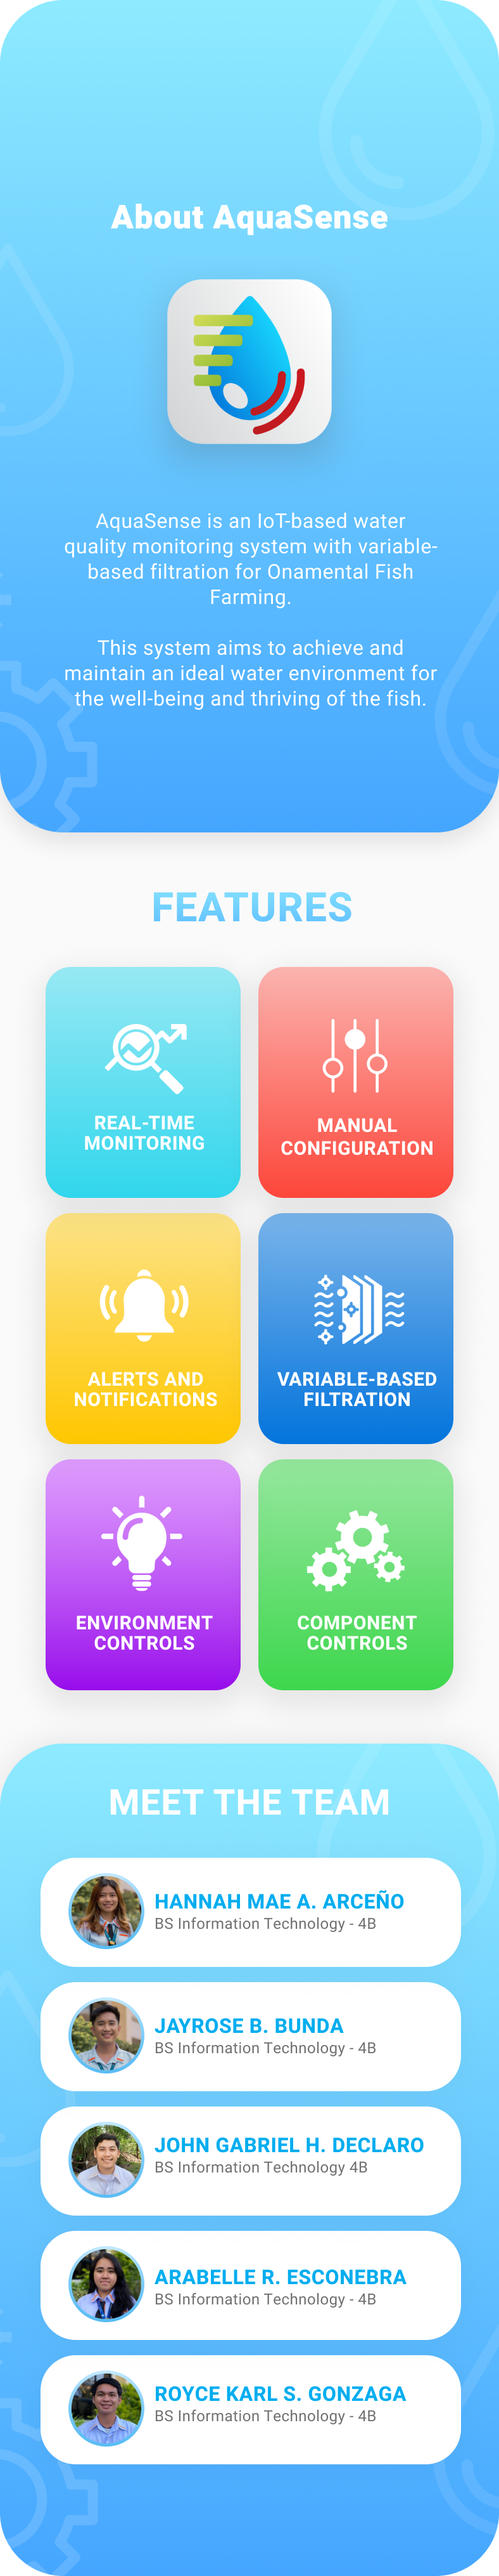
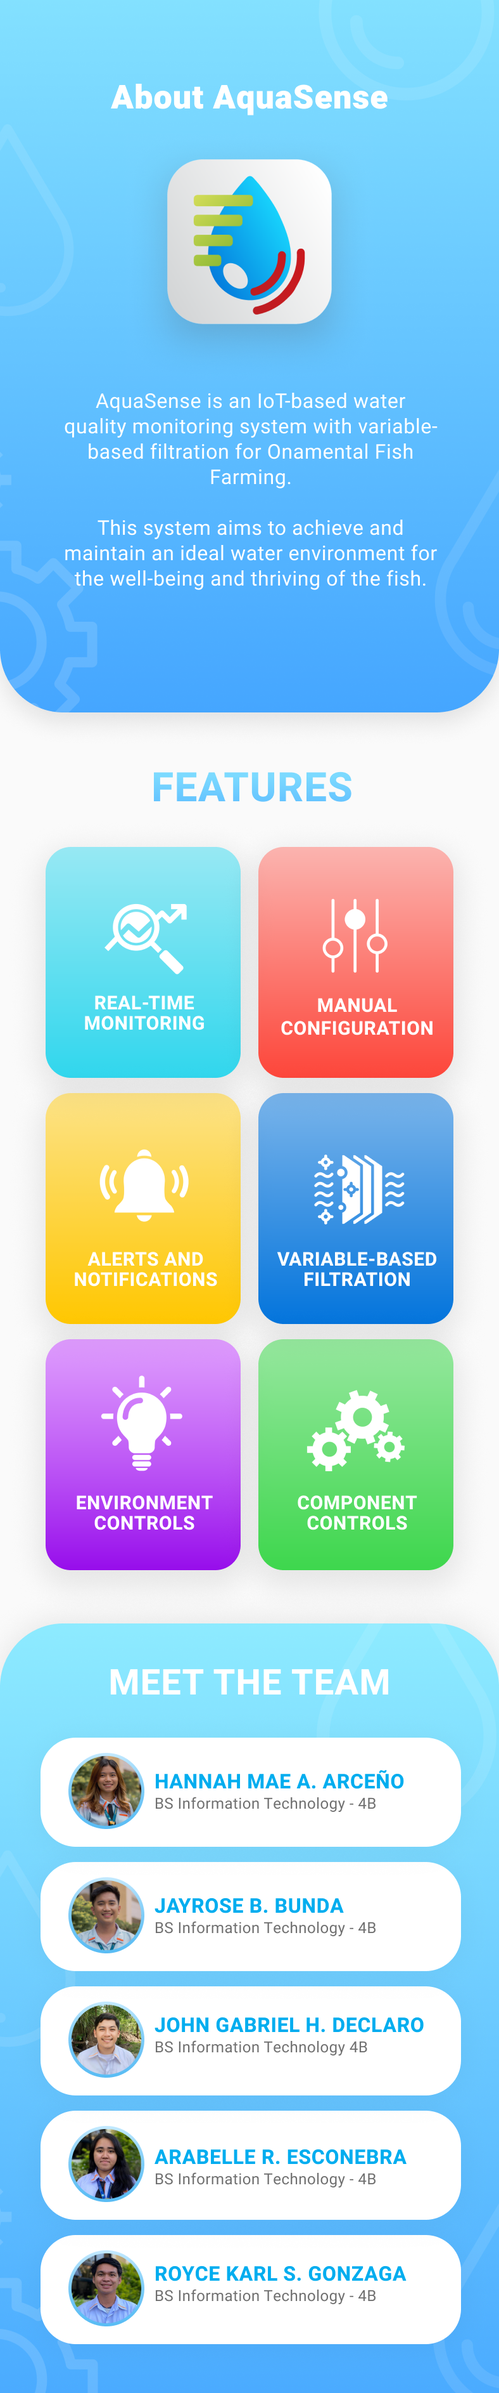
about page changes

diff --git a/lib/pages/about_page.dart b/lib/pages/about_page.dart
@@ -28,7 +28,7 @@ class AboutPage extends StatelessWidget {
       ),
       body: SingleChildScrollView(
         child: Padding(
-          padding: const EdgeInsets.all(16.0),
+          padding: const EdgeInsets.all(0),
           child: Column(
             crossAxisAlignment: CrossAxisAlignment.stretch,
             children: [
